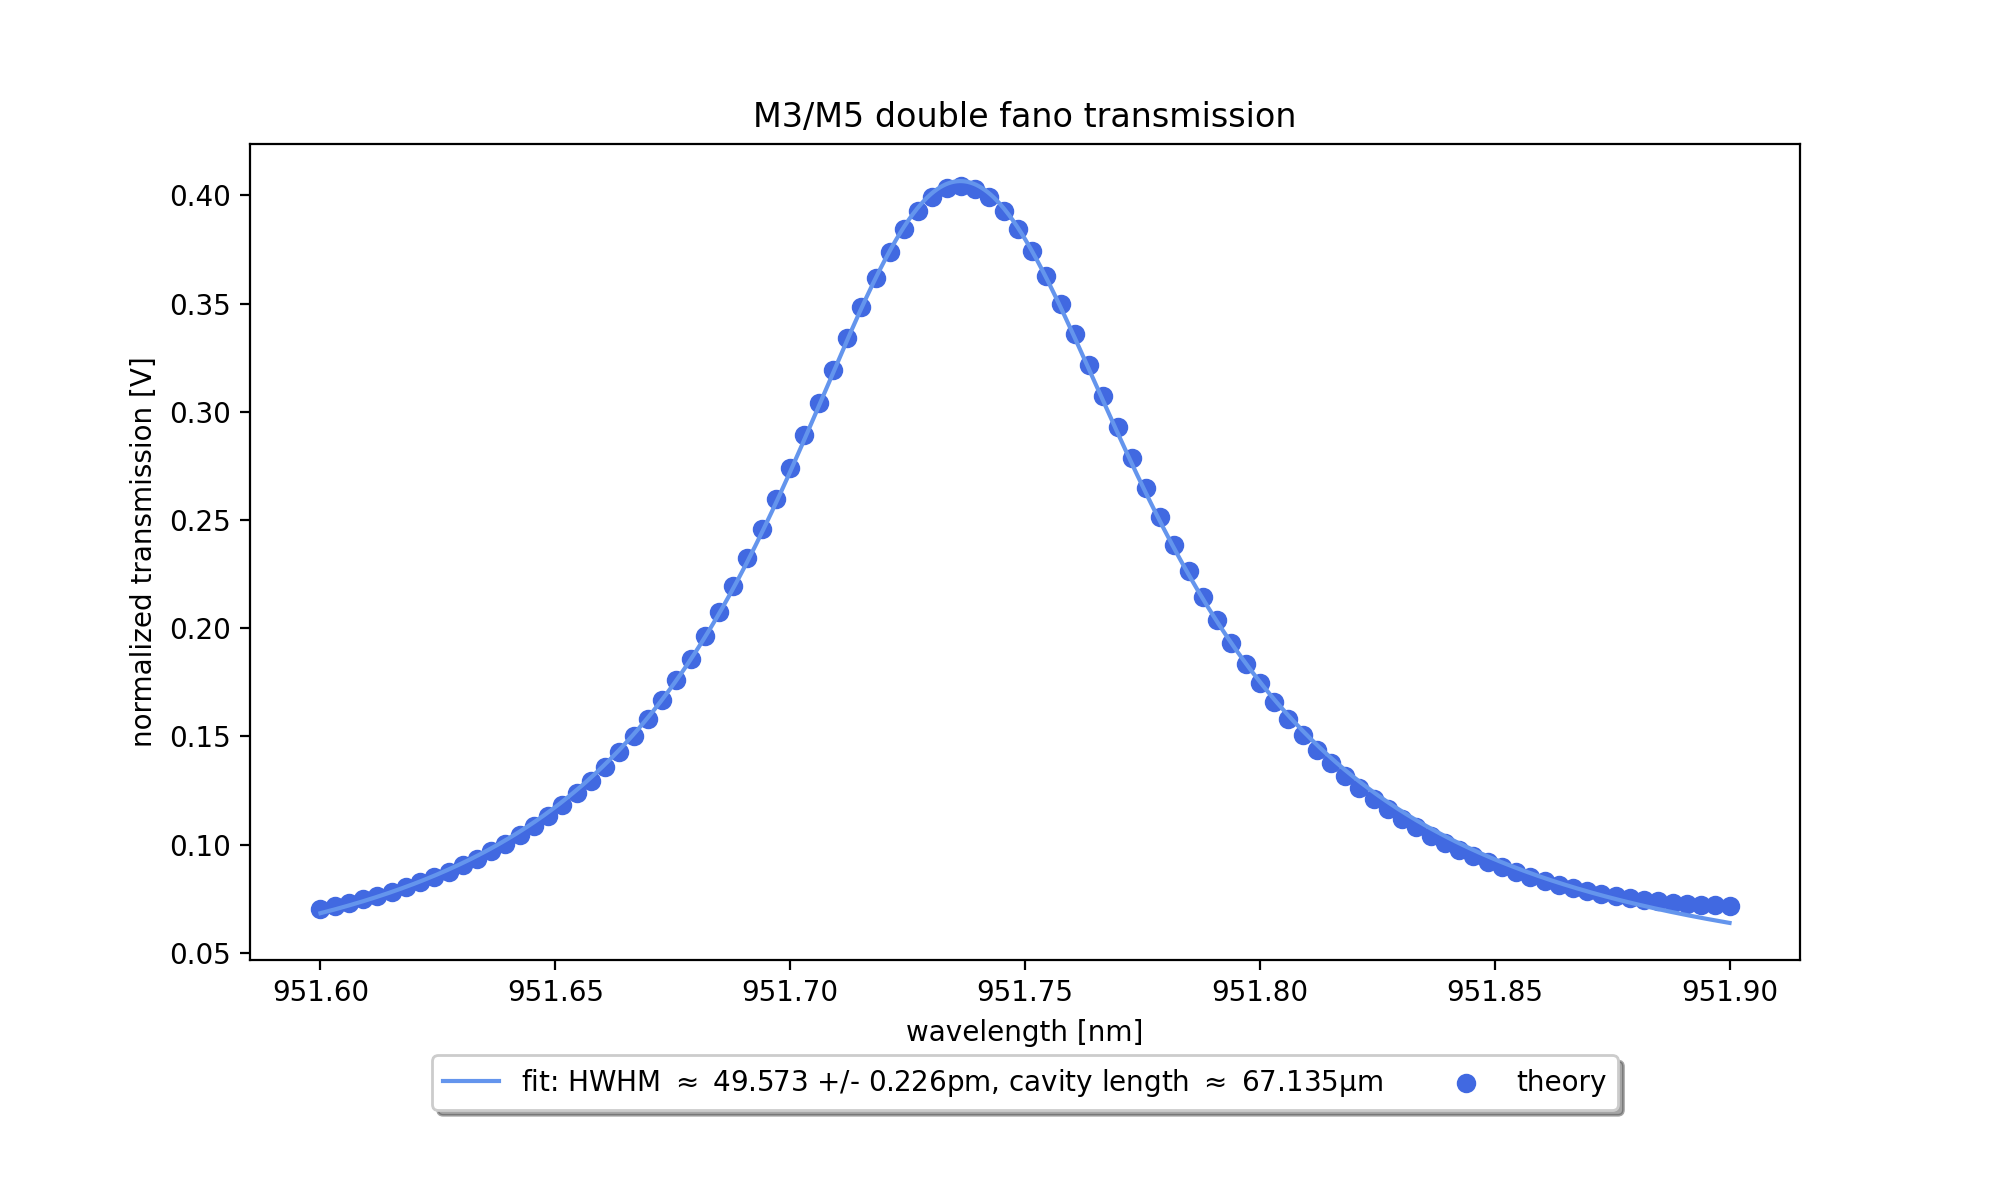
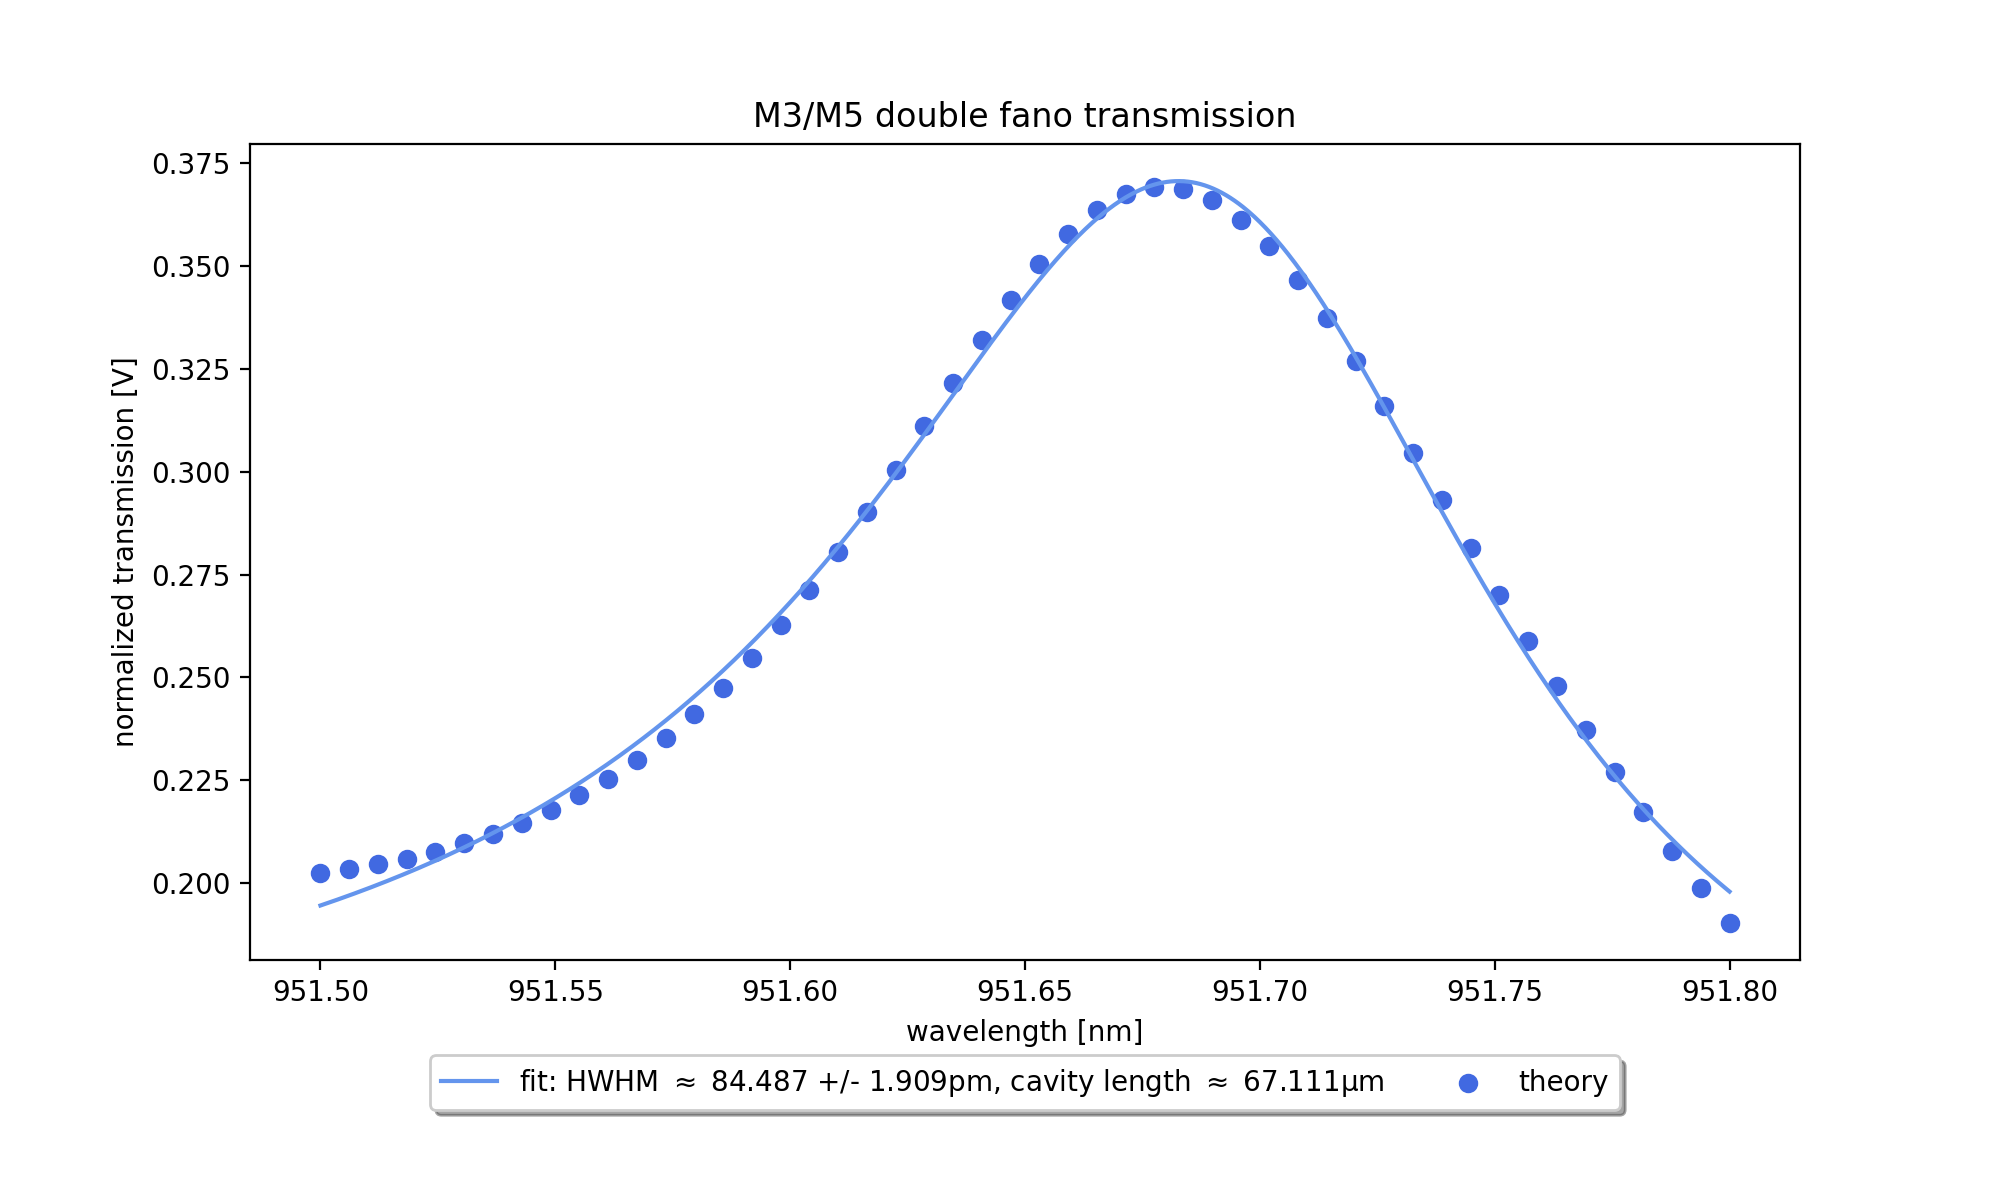
-

diff --git a/fano_theory.py b/fano_theory.py
@@ -897,8 +897,8 @@ def linewidth_length_plot(params1: list, params2: list, λs: np.array, intracavi
 #length_mid = (double_cavity_length(params1, params2, λs, lmin=lmin)*0.5 + double_cavity_length(params2, params1, λs, lmin=lmin)*0.5)
 #Ts_mid = dual_fano_transmission(params1, params2, length_mid, λs, loss_factor=0.05)
 
-lmin = 299
-length = (double_cavity_length(params1, params2, λs, lmin=lmin)*0.9 + double_cavity_length(params2, params1, λs, lmin=lmin)*0.1)
+lmin = 67
+length = (double_cavity_length(params1, params2, λs, lmin=lmin)*0.8 + double_cavity_length(params2, params1, λs, lmin=lmin)*0.2)
 print(length)
 Ts = dual_fano_transmission(params1, params2, length, λs, loss_factor=0.05, intracavity=False)
 

diff --git a/cavity_linewidth.py b/cavity_linewidth.py
@@ -255,8 +255,8 @@ lws_0226 = np.array([lw25,lw56,lw75,lw90,lw113,lw181,lw226,lw323,lw452,lw755])*1
 errs_0226 = np.array([err25,err56,err75,err90,err113,err181,err226,err323,err452,err755])*1e-12 ## standard deviation of all measurements (within reason)
 ls_0226 = np.array([24.612, 54.105, 67.149, 88.825, 106.709, 155.497, 196.168, 299.106, 412.991, 718.787])*1e-6 ## found from fsr scan and fit
 
-sim_ls = np.array([24.784, 54.291, 155.616, 299.309, 718.816])*1e-6
-sim_lws = np.array([99.942, 84.039, 61.223, 41.117, 27.169])*1e-12
+sim_ls = np.array([24.784, 54.291, 67.111, 155.616, 299.309, 718.816])*1e-6
+sim_lws = np.array([99.942, 84.039, 84.487, 61.223, 41.117, 27.169])*1e-12
 
 plt.figure(figsize=(10,6))
 
